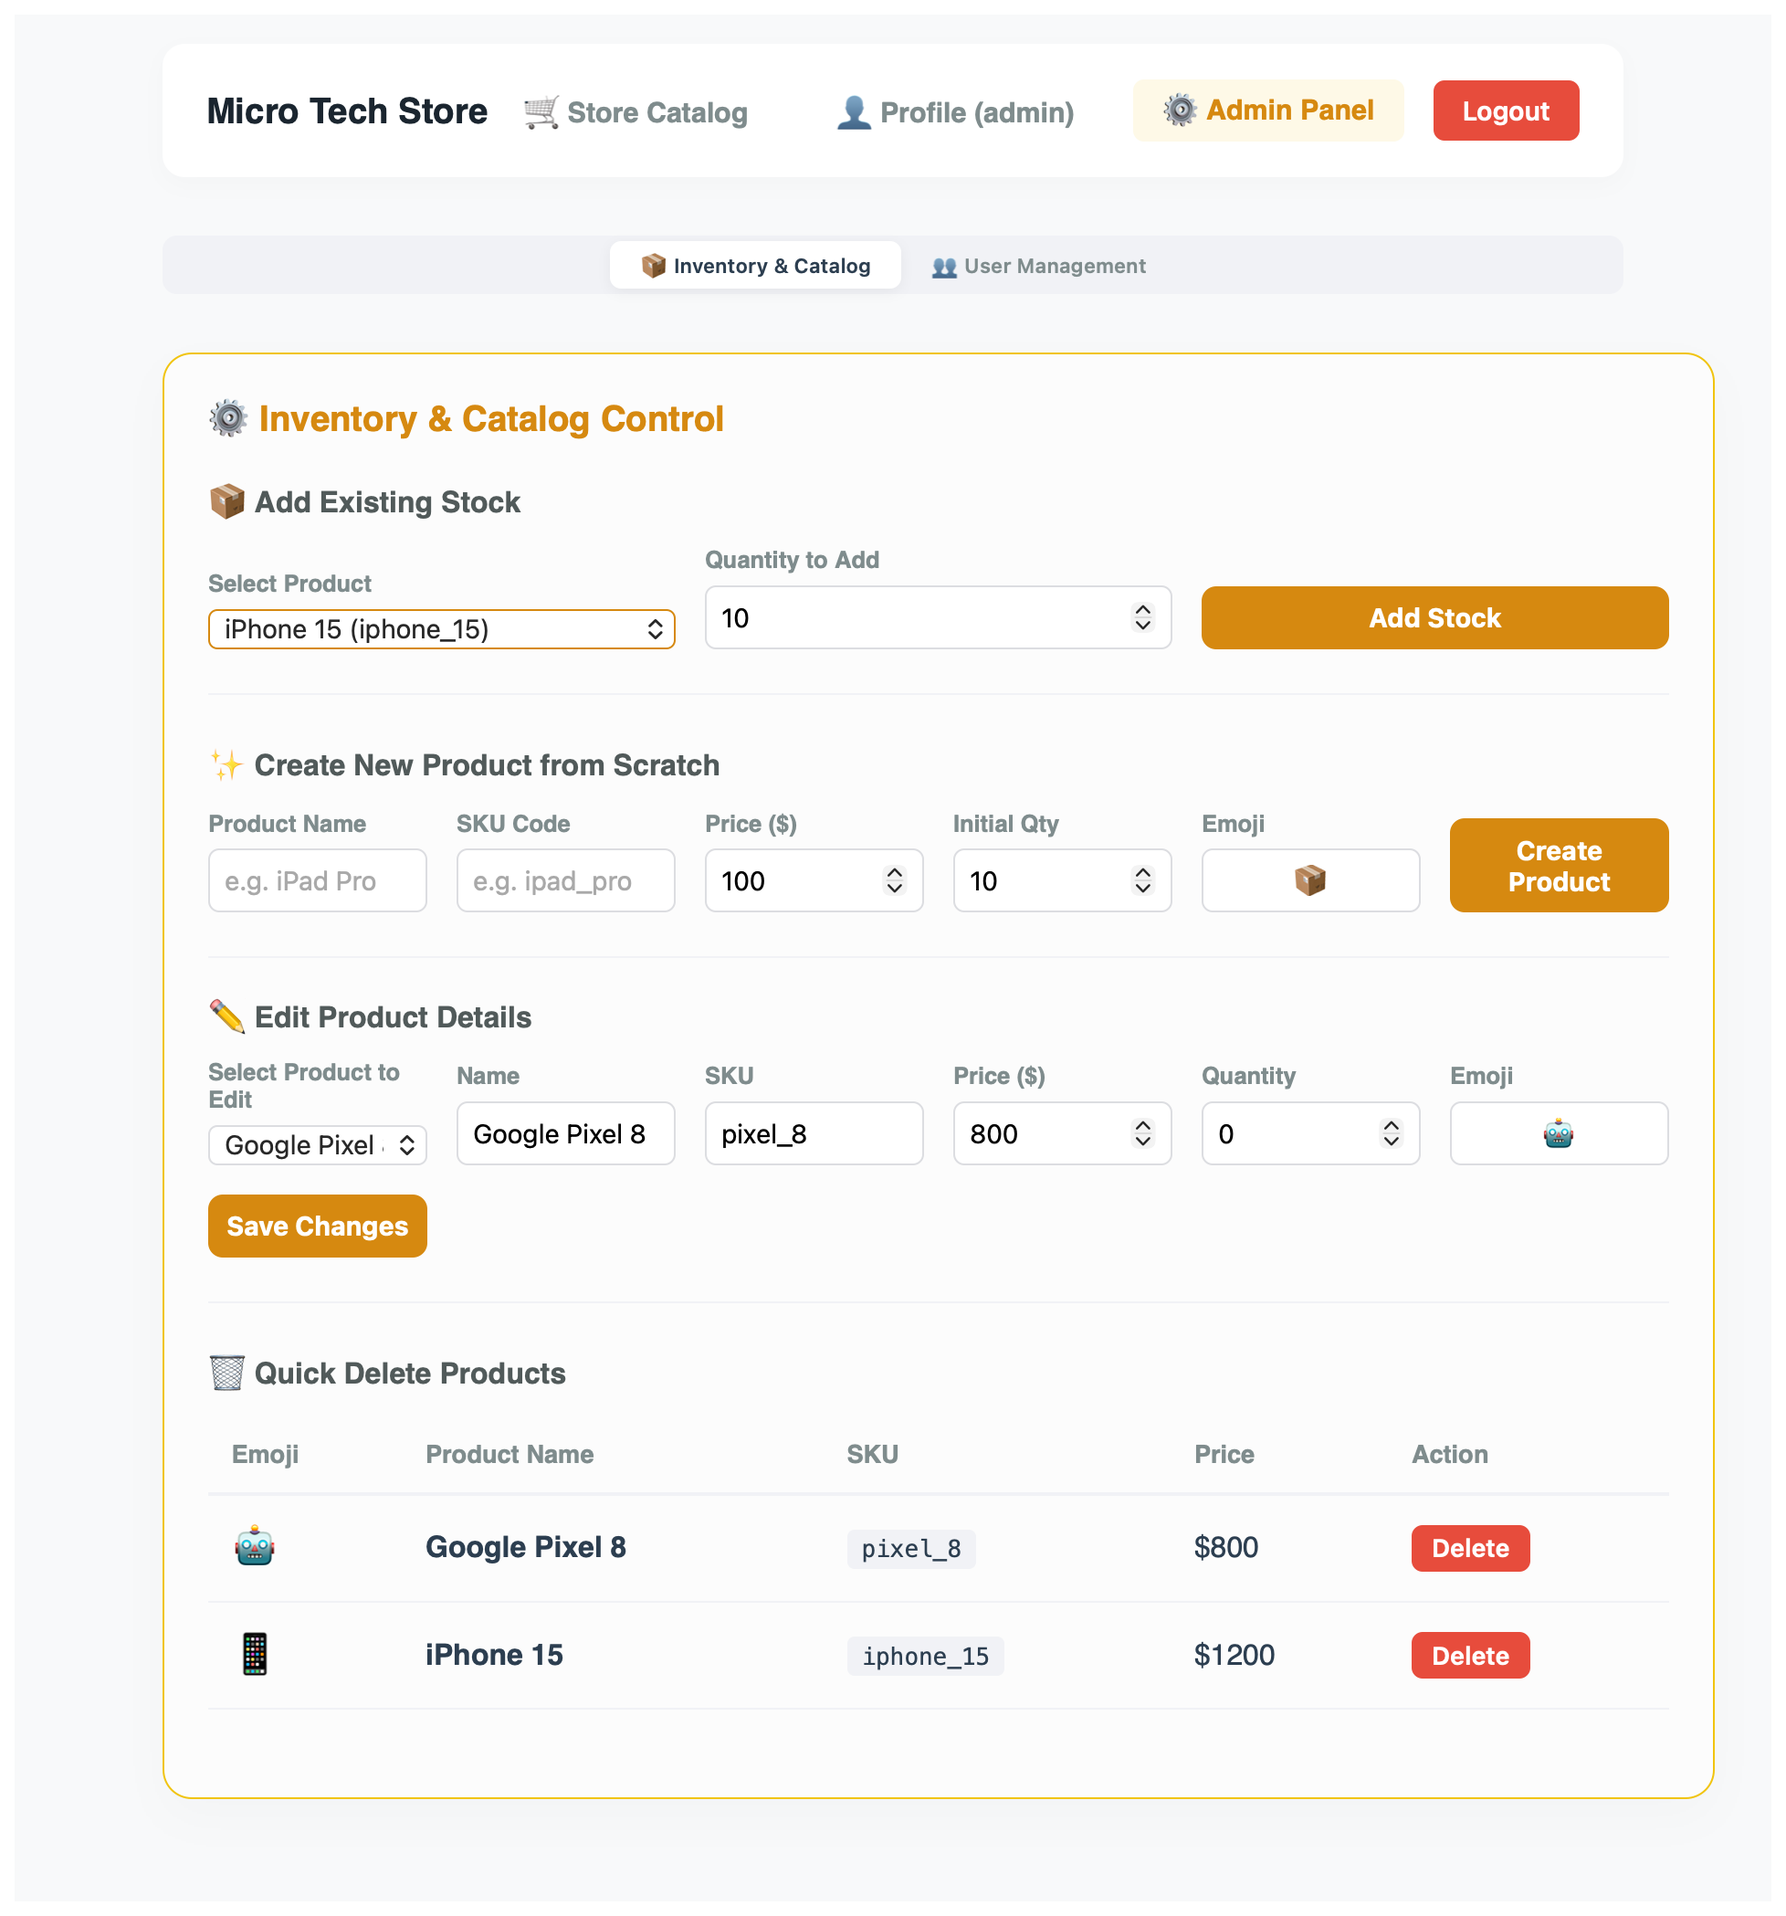
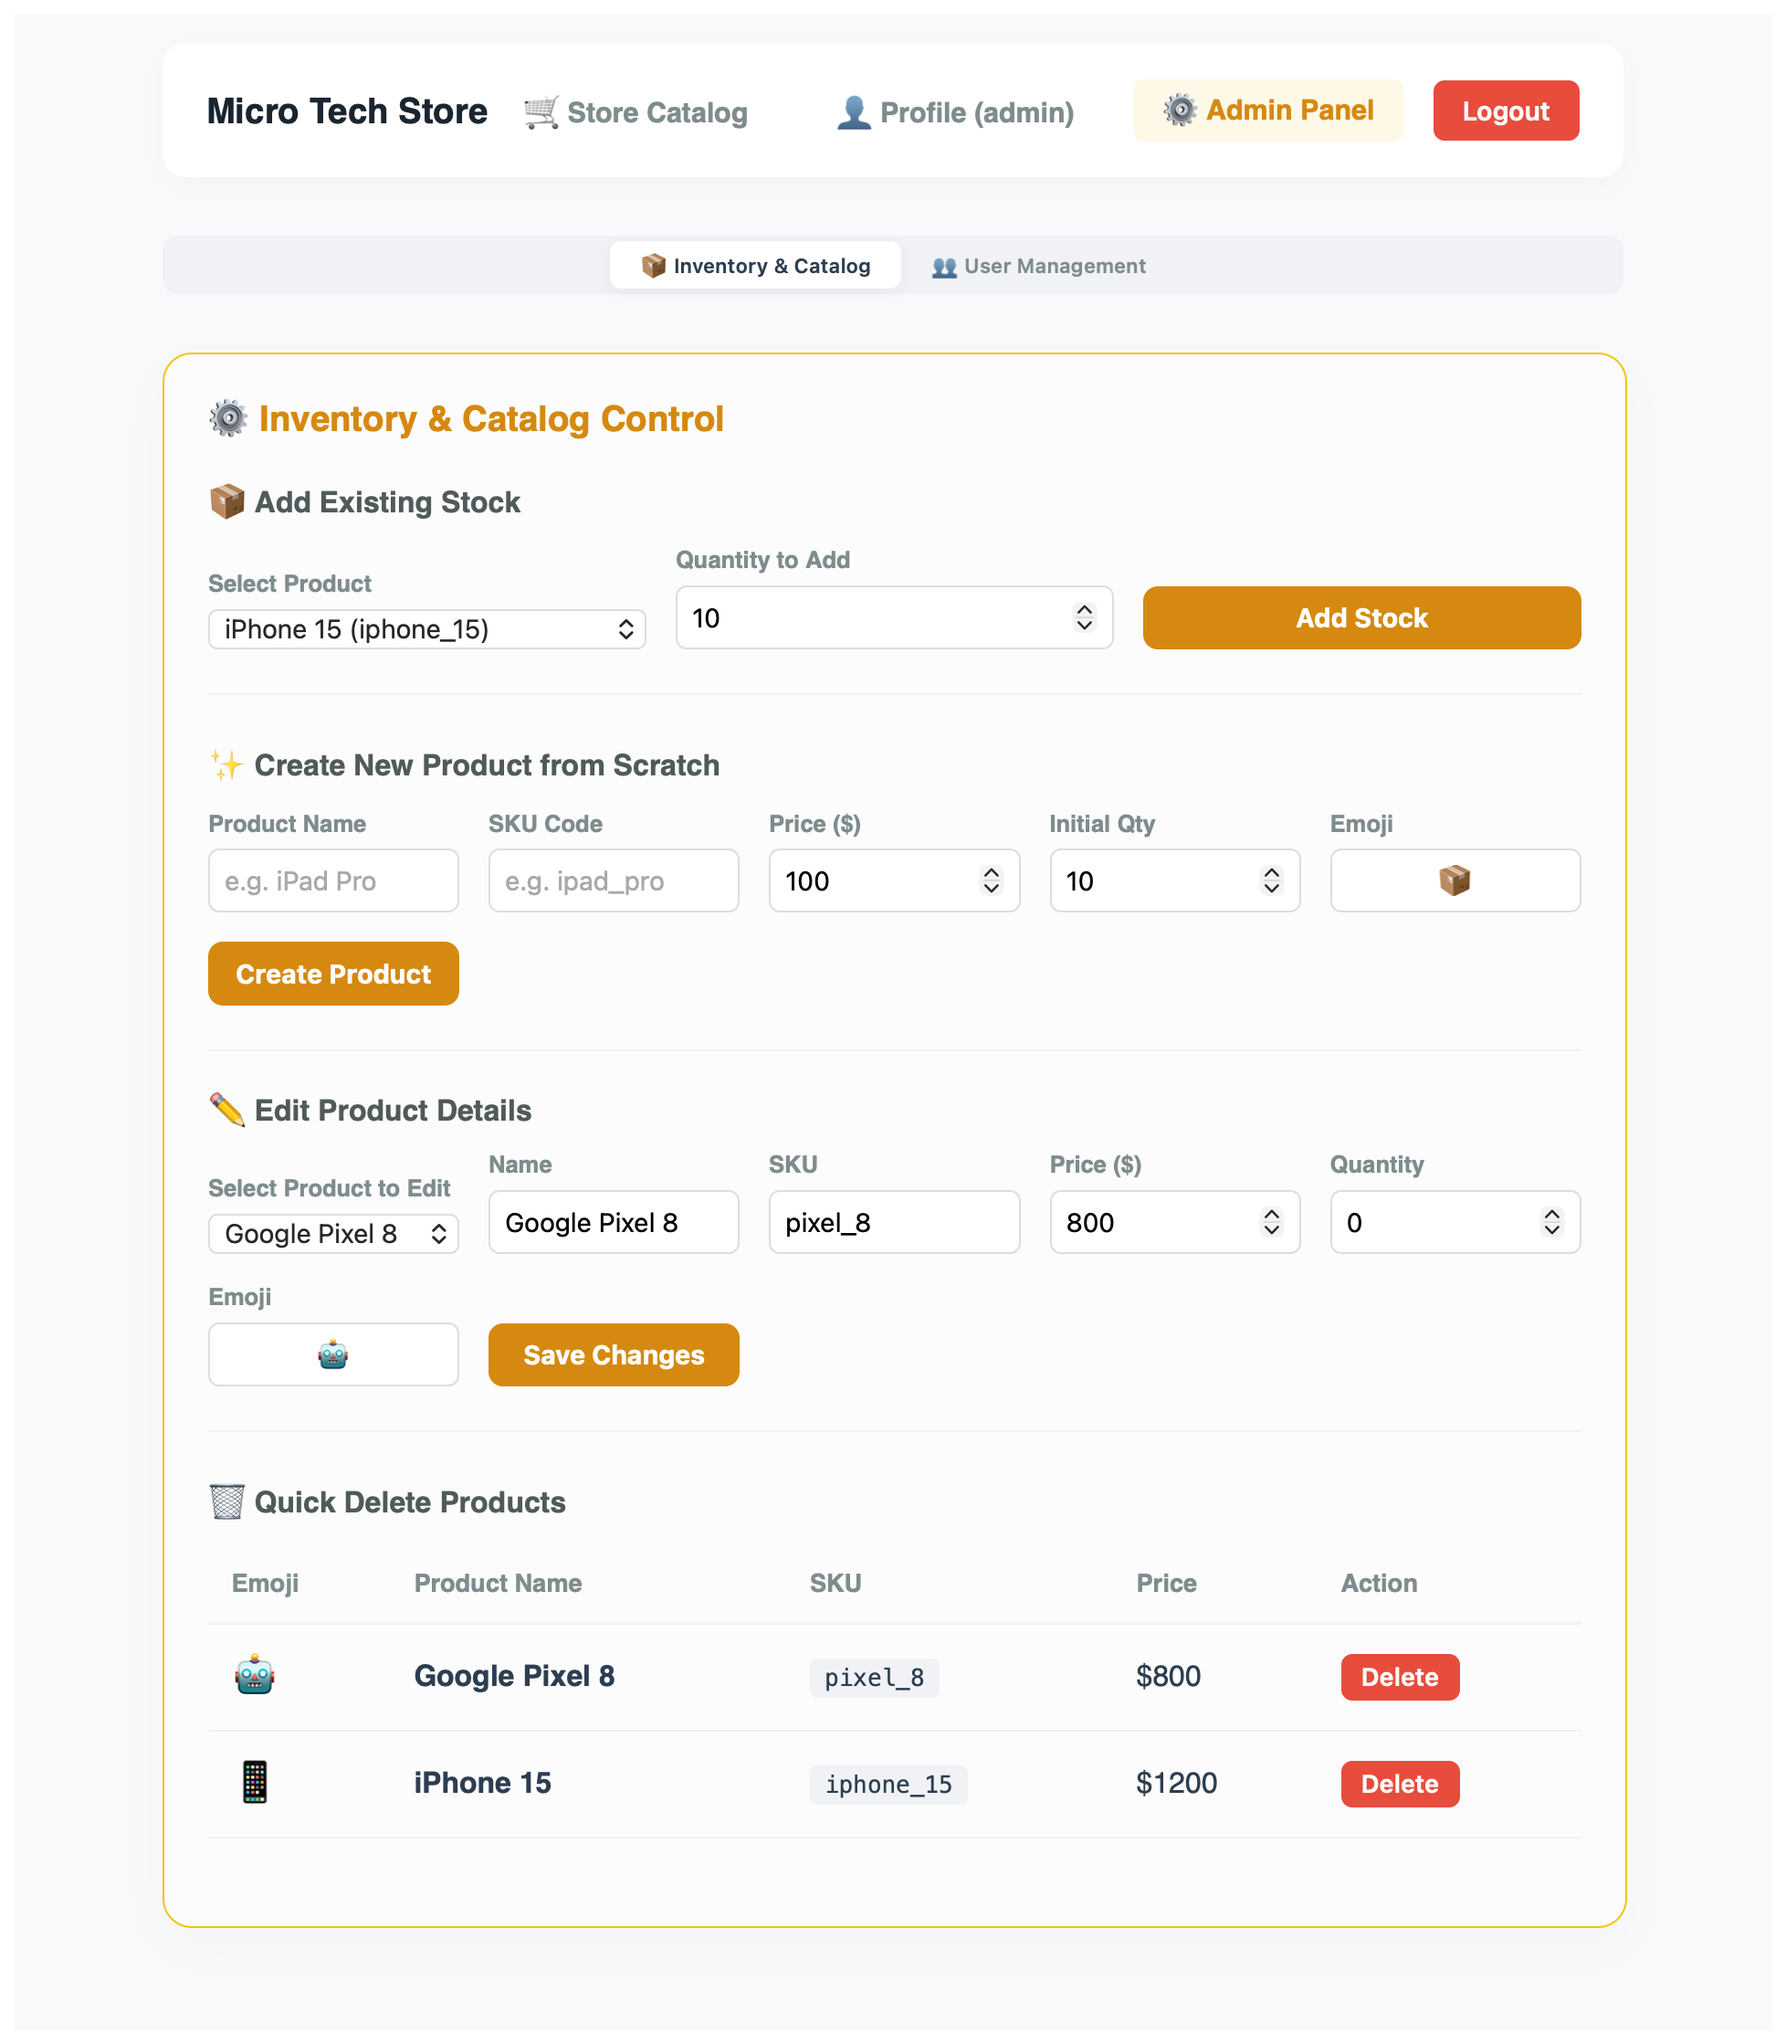
style: fix some web design problems

diff --git a/frontend-vue/src/App.css b/frontend-vue/src/App.css
@@ -167,7 +167,7 @@
 
 /* ПАНЕЛЬ АДМИНИСТРАТОРА (Две секции) */
 .admin-panel {
-    width: 100%;
+    width: 94%;
     max-width: 800px;
     background: #fcfcfc;
     padding: 1.5rem;
@@ -258,7 +258,7 @@
 
 /* Панель корзины */
 .cart-panel {
-    width: 100%;
+    width: 94%;
     max-width: 800px;
     background: white;
     padding: 1.5rem;

diff --git a/frontend-vue/src/views/CabinetView.vue b/frontend-vue/src/views/CabinetView.vue
@@ -313,7 +313,7 @@ onMounted(() => {
   border-radius: 16px;
   box-shadow: 0 10px 30px rgba(0, 0, 0, 0.03);
   border: 1px solid #eef2f3;
-  width: 100%;
+  width: 90%;
 }
 
 .vertical-form {
